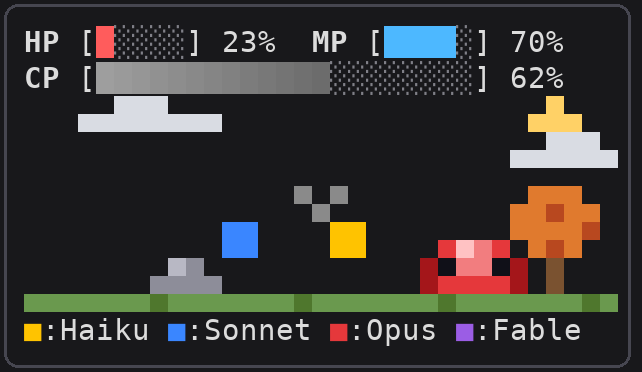
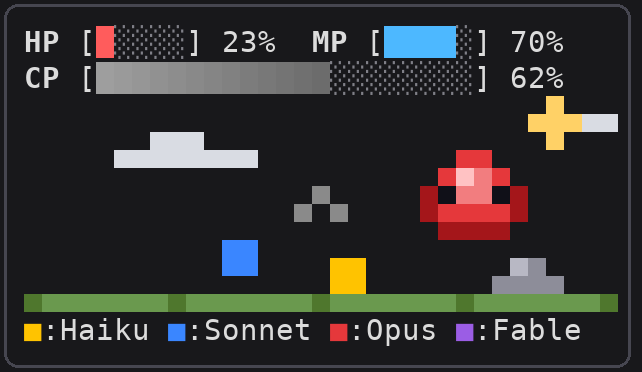
README's walk GIF loops seamlessly: the picture's road repeats once per loop, one palette for all frames

diff --git a/hooks/scene.ts b/hooks/scene.ts
@@ -173,7 +173,31 @@ const unit = (n: number, seed: number) => (Math.imul((n ^ seed) | 0, 2654435761)
 export const treeKind = (worldX: number) => Math.floor(unit(worldX, 0x3a7) * TREES.length)
 
 // World x of every tree or rock whose left edge lies in [from, to).
+// For the README's looping picture only: the road repeats every `period`
+// pixels (a multiple of the grass stripe's 8), so the last frame of a walk
+// one period long leads back into the first. Undefined, as in the pane, it
+// never repeats. Things too near a period's end to fit are left out, so the
+// seam never splits one.
+let loopPeriod: number | undefined
+export function setLoop(period: number | undefined): void {
+  loopPeriod = period
+}
+function looped(from: number, to: number, width: number, inPeriod: (from: number, to: number) => number[]): number[] {
+  const P = loopPeriod!
+  const base = inPeriod(0, P).filter(x => x + width + 2 <= P)
+  const found: number[] = []
+  for (let n = Math.floor(from / P) - 1; n * P < to; n++) {
+    for (const x of base) if (x + n * P >= from && x + n * P < to) found.push(x + n * P)
+  }
+  return found
+}
+
 export function scattered(layer: 'tree' | 'rock', from: number, to: number): number[] {
+  if (loopPeriod === undefined) return scatteredAlong(layer, from, to)
+  const width = SCATTER.find(s => s.layer === layer)!.sprite.rows[0]!.length
+  return looped(from, to, width, (a, b) => scatteredAlong(layer, a, b))
+}
+function scatteredAlong(layer: 'tree' | 'rock', from: number, to: number): number[] {
   const sc = SCATTER.find(s => s.layer === layer)!
   const found: number[] = []
   for (let k = Math.floor(from / sc.span) - 1; k * sc.span < to; k++) {
@@ -199,6 +223,10 @@ const GAPE_REACH = 3
 
 // World x (in the rocks' frame) of every blob whose left edge lies in [from, to).
 export function goos(from: number, to: number): number[] {
+  if (loopPeriod !== undefined) return looped(from, to, GOO_W, goosAlong)
+  return goosAlong(from, to)
+}
+function goosAlong(from: number, to: number): number[] {
   const sc = GOO_SCATTER
   const found: number[] = []
   for (let k = Math.floor(from / sc.span) - 1; k * sc.span < to; k++) {
@@ -586,7 +614,7 @@ export function frame(
   }
   // Landmarks first, so the trees scattered along the road stand in front.
   const treeAt = Math.floor(off.tree)
-  for (const mark of LANDMARKS) draw(mark.sprite, mark.x - treeAt, GROUND_Y - 1)
+  if (loopPeriod === undefined) for (const mark of LANDMARKS) draw(mark.sprite, mark.x - treeAt, GROUND_Y - 1)
   for (const sc of SCATTER) {
     const at = Math.floor(off[sc.layer])
     const width = sc.sprite.rows[0]!.length

diff --git a/tools/pictures.py b/tools/pictures.py
@@ -22,7 +22,7 @@ ROOT = os.path.dirname(os.path.dirname(os.path.abspath(__file__)))
 HOOKS = os.path.join(ROOT, 'hooks')
 DOCS = os.path.join(ROOT, 'docs')
 W = 33  # the pane's columns
-GIF_FRAMES = 80  # top.gif: eight seconds of the walk
+GIF_FRAMES = 120  # top.gif: twelve seconds of the walk, one loop of the road
 CW, CH, PAD = 18, 36, 24  # a cell's pixels, and the margin
 MARGIN = 3  # columns right of the pane for badges
 FONT = ImageFont.truetype('/usr/share/fonts/truetype/dejavu/DejaVuSansMono.ttf', 29)
@@ -51,18 +51,22 @@ def scenes():
                 f.write(text)
         with open(os.path.join(tmp, 'cells.ts'), 'w') as f:
             f.write("""
-import { frame, ROWS, step } from './scene.ts'
+import { frame, ROWS, setLoop } from './scene.ts'
 const W = %d
 const decode = (b64: string) => { const b = Buffer.from(b64, 'base64'); const u = new Uint32Array(b.buffer, b.byteOffset, b.length / 4); return Array.from({ length: ROWS }, (_, r) => Array.from(u.slice(r * W * 3, (r + 1) * W * 3))) }
 const off = (n: number) => ({ cloud: 23 + n, bird: 40, tree: 52 + n, rock: 31 + n, ground: 9 })
 const troop = [{ model: 'claude-haiku-5-5', pos: 0 }, { model: 'claude-sonnet-5-5', pos: 1 }]
-// The walk, frame by frame, as the pane plays it at ten frames a second.
-const walk = off(28)
-const walkingFrames = Array.from({ length: %d }, (_, t) => {
-  const cells = decode(frame(W, walk, 12 + t, true, 'claude-opus-5-5', troop, { day: true, sky: 'partly' }))
-  step(walk, true)
-  return cells
+// The walk, frame by frame at ten a second, made to loop: the road repeats
+// every LOOP pixels and the walk covers exactly one, while the clouds and
+// birds drift exactly one span of theirs, so the last frame leads into the first.
+const T = %d, LOOP = T * 0.8
+setLoop(LOOP)
+const walkingFrames = Array.from({ length: T }, (_, t) => {
+  const road = 40 + t * 0.8
+  const at = { cloud: 23 + (t * 50) / T, bird: 40 + (t * 75) / T, tree: road, rock: road, ground: road }
+  return decode(frame(W, at, t, true, 'claude-opus-5-5', troop, { day: true, sky: 'partly' }))
 })
+setLoop(undefined)
 console.log(JSON.stringify({
   walkingFrames,
   asleep: decode(frame(W, off(0), 7, false, 'claude-opus-5-5', [], { day: false, sky: 'clear' })),
@@ -268,7 +272,10 @@ def render(name, rows, cells, ask=False):
 
 def render_gif(name, rows, frames):
     """An animated picture: the rows drawn over each frame of the scene, 10 fps, looping."""
-    imgs = [draw(rows, cells).quantize(colors=128, method=0) for cells in frames]
+    # One palette for every frame, so a color never shifts from one to the next.
+    full = [draw(rows, cells) for cells in frames]
+    palette = full[0].quantize(colors=255, method=0)
+    imgs = [img.quantize(palette=palette) for img in full]
     path = os.path.join(DOCS, f'{name}.gif')
     imgs[0].save(path, save_all=True, append_images=imgs[1:], duration=100, loop=0, optimize=True, disposal=1)
     print(path, imgs[0].size, f'{len(imgs)} frames', f'{os.path.getsize(path) // 1024} KB')
